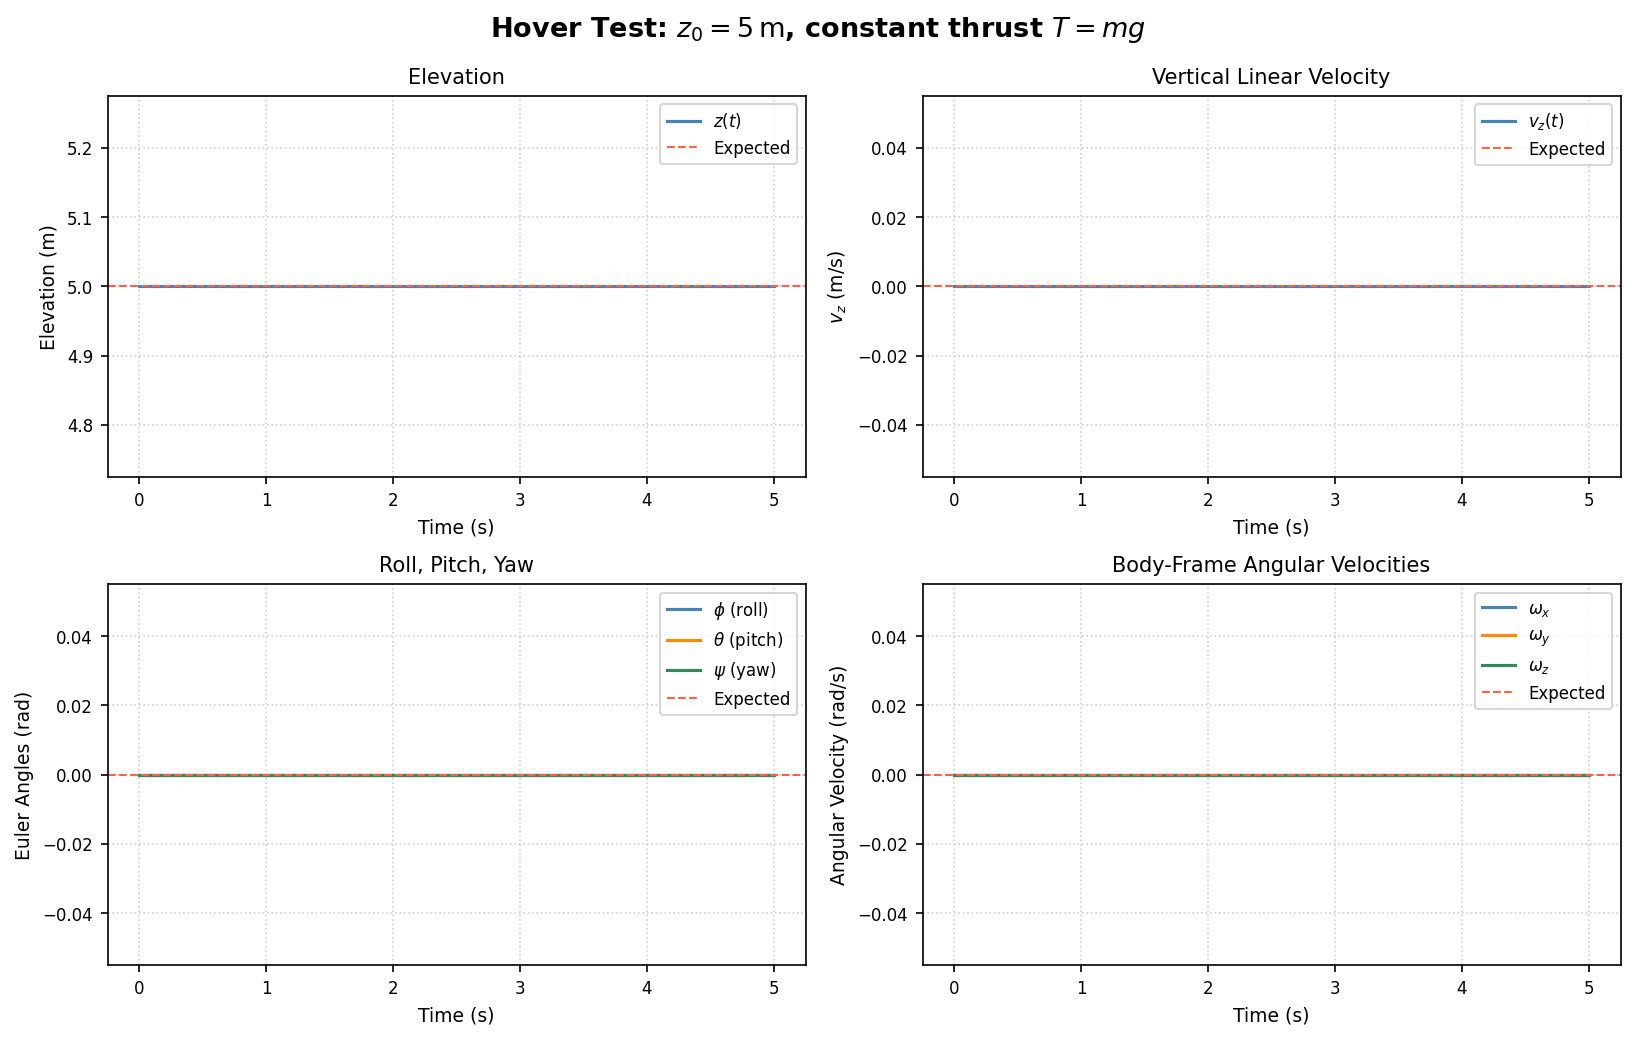
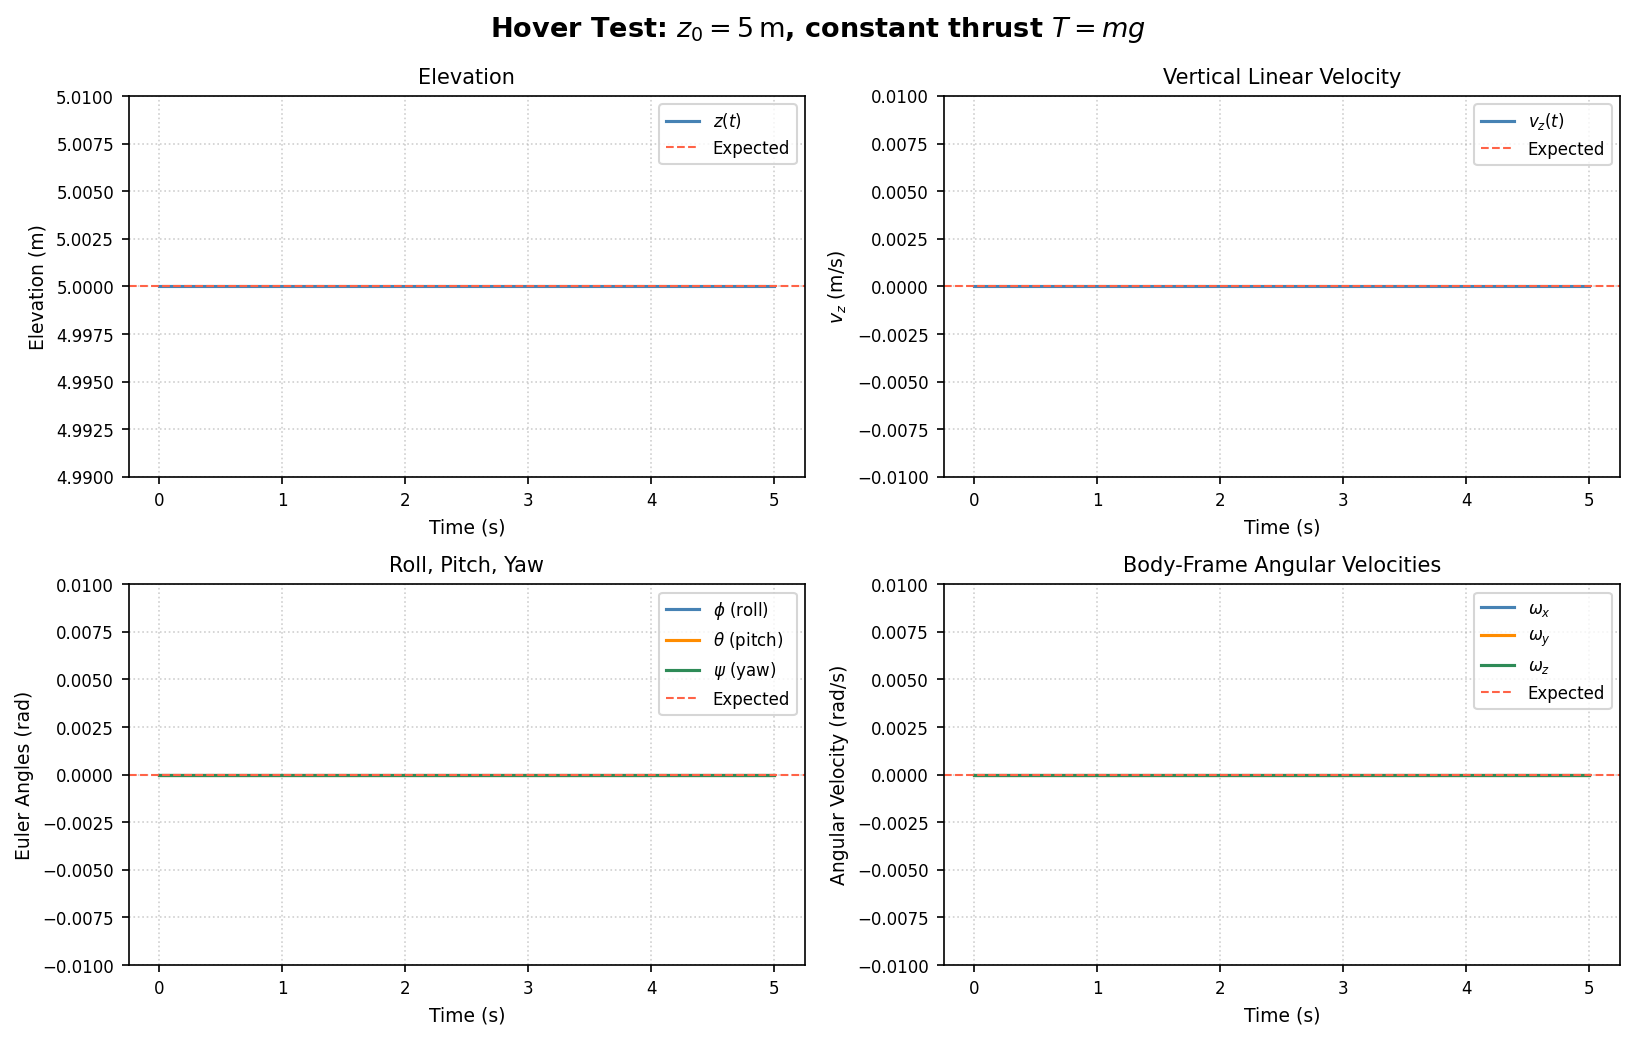
update params and add climb and descent test

diff --git a/tests/test_hover.py b/tests/test_hover.py
@@ -27,7 +27,7 @@ states = [env.state.copy()] # here we start from the IC of the iniital state tha
    
 for _ in range(env.max_steps): # step through the hover_env                                                                                                                                                                                   
     obs, _, terminated, truncated, _ = env.step(hover_action)
-    states.append(obs.copy())                                                                                                                                                                                       
+    states.append(obs)                                                                                                                                                                                       
     if terminated or truncated:
         break                                                                                                                                                                                                       
                   
@@ -79,7 +79,8 @@ ax.plot(t, z, color='steelblue', linewidth=1.5, label=r'$z(t)$')
 ax.axhline(5.0, **EXPECTED)                                                                                                                                                                                         
 ax.set_ylabel('Elevation (m)', fontsize=9)                                                                                                                                                                           
 ax.set_title('Elevation', fontsize=10)                                                                                                                                                                               
-style_ax(ax)                                                                                                                                                                                                        
+style_ax(ax)    
+axes[0,0].set_ylim(4.99,5.01)                                                                                                                                                                                                    
 
 # plot second figure with vertical linear velocity:                                                                                                                                                                                                     
 ax = axes[0, 1]                                                                                                                                                                                                     
@@ -87,7 +88,8 @@ ax.plot(t, vz, color='steelblue', linewidth=1.5, label=r'$v_z(t)$')
 ax.axhline(0.0, **EXPECTED)                                                                                                                                                                                         
 ax.set_ylabel(r'$v_z$ (m/s)', fontsize=9)                                                                                                                                                                    
 ax.set_title('Vertical Linear Velocity', fontsize=10)
-style_ax(ax)                                                                                                                                                                                                        
+style_ax(ax)
+axes[0,1].set_ylim(-0.01,0.01)                                                                                                                                                                                                        
 
 # plot third figure with euler angles for roll pitch and yaw:                                                                                                                                                                                                        
 ax = axes[1, 0]                                                                                                                                                                                                     
@@ -97,7 +99,8 @@ ax.plot(t, psi, color='seagreen', linewidth=1.5, label=r'$\psi$ (yaw)')
 ax.axhline(0.0, **EXPECTED)                                                                                                                                                                                         
 ax.set_ylabel('Euler Angles (rad)', fontsize=9)                                                                                                                                                                     
 ax.set_title('Roll, Pitch, Yaw', fontsize=10)                                                                                                                                                                       
-style_ax(ax)                                                                                                                                                                                                      
+style_ax(ax)
+axes[1,0].set_ylim(-0.01,0.01)                                                                                                                                                                                                      
 
 # last plot figure with angular velocity:                                                                                                                                                                                                                 
 ax = axes[1, 1]                                                                                                                                                                                                   
@@ -107,7 +110,8 @@ ax.plot(t, omemga_z, color='seagreen',   linewidth=1.5, label=r'$\omega_z$')
 ax.axhline(0.0, **EXPECTED)                                                                                                                                                                                         
 ax.set_ylabel(r'Angular Velocity (rad/s)', fontsize=9)                                                                                                                                                       
 ax.set_title('Body-Frame Angular Velocities', fontsize=10)                                                                                                                                                          
-style_ax(ax)                                                                                                                                                                                                        
+style_ax(ax)
+axes[1,1].set_ylim(-0.01,0.01)                                                                                                                                                                                                        
                                                                                                                                                                                                                       
 plt.tight_layout()                                                                                                                                                                                                  
 plt.savefig('figures/hover_test.png', dpi=150, bbox_inches='tight')                                                                                                                                                       

diff --git a/tests/test_climb_descend.py b/tests/test_climb_descend.py
@@ -1,38 +1,99 @@
 '''
-Here we perform a climb and descend test. We let the quadrotor start climbing at 'x' m, and set the thrust to be greater than the hover thrust. For descent, we set the thrust to be lower than
-hover thrust. We expect to see the drone's elevation increase, when climbing. And when descending, the drone's elevation should decrease at a rate much less than under freefall. 
-Moreover, the more we increase the thrust, the steeper the climb gradient should be. And for descent, the more we reduce the thrust, the steeper (more negative) the descent gradient should be.
-Additionally, the attitude of the drone (in all roll, pitch and yaw directions) should not change...i.e. they should remain at 0.
+Here we complete a climb and descent test using the HoverEnv.step() function. 
+We note that to climb, T>mg, which should result in constant up accel. 
+And to descend, T<mg, which should result in a constant downward accel. 
+
+We expect to have acceleration in z be constant (a_z(t) = (T-mg)/m)
+- v_z(t) = a_z.t (linear in time)
+- z(t) = z_0 + 0.5.a_z.t^2 (quadratic in time)
+- phi, theta, psi, omega all remain 0. 
 '''
 
-import numpy as np 
+import numpy as np
 import matplotlib.pyplot as plt
-from quadrotor.params import Quadrotorparams
-from quadrotor.simulator import simulation
+from envs.hover_env import HoverEnv
 
-# fetch our parameters: 
-params = Quadrotorparams()
+# initiliase the env. with some constants:
+env = HoverEnv()
+params = env.params
+mg = params.m * params.g
+z_0 = 5.0 # initialise the drone at 5m, same as hover test. 
 
-# start at position 'x' m up, no yaw, roll or pitch (straight and level):
-x_0 = np.array([0,0,5, # corresponds to position ICs
-                0,0,0, # corresponds to velocity ICs
-                0,0,0, # corresponds to euler angle ICs
-                0,0,0]) # corresponds to angular velocity ICs
+T_climb = 1.5 * 4.0 * params.hover_thrust # set the climb thrust to 1.5 x hover thrust
+T_descent = 0.5 * 4.0 * params.hover_thrust # set descent thrust to 0.5 x hover thrust
 
-# set thrust to be greater than hover thrust: 
-u = np.array([0.5*params.hover_thrust]*4)
+def run_step(T_total, z0=z_0):
+    env = HoverEnv()
+    env.reset()
+    env.state = np.array([
+        0.0, 0.0, z0,
+        0.0, 0.0, 0.0,
+        0.0, 0.0, 0.0,
+        0.0, 0.0, 0.0,
+    ])
+    action = np.array([T_total, 0.0, 0.0, 0.0])
+    states = [env.state.copy()]
+    for _ in range(env.max_steps):
+        obs, _, terminated, truncated, _ = env.step(action)
+        states.append(obs)
+        if terminated or truncated:
+            break
+    states = np.array(states)
+    t = np.arange(len(states)) * env.dt # convert the discrete time indices to real time indices...recall that dt = 0.01s
+    z = states[:,2]
+    vz = states[:,5]
+    az = np.gradient(vz, env.dt) # here we numerically differentiate v_z(t) to obtain the acceleration
+    return t, z, vz, az
+    
+# get the respective values from the run_step function, when applying climbing thrust and descent thrust: 
+t_climb, z_climb, vz_climb, az_climb = run_step(T_climb)
+t_descent, z_descent, vz_descent, az_descent = run_step(T_descent)
 
-# setup parameters to be fed into simulation function: 
-t_span = (0,5)
-t_eval = np.linspace(0,5,200)
+# compute the constants for climb and descent: 
+a_climb = (T_climb-mg)/params.m
+a_descent = (T_descent-mg)/params.m
 
-# fetch the solution from the simulator:
-sol = simulation(x_0, u, t_span, params, t_eval)
+# plot the figs: 
+fig, axes = plt.subplots(3, 2, figsize=(11, 9))
+fig.suptitle('Climb and Descent Test', fontsize=13, fontweight='bold')
 
-# plot the result (we should expect an increasing parabola for climb and decreasing parobola for descent): 
-plt.plot(sol.t,sol.y[2])
-plt.xlabel('Time Elapsed (s)')
-plt.ylabel('Elevation (m)')
-plt.title('Climb Test')
-plt.grid(True)
+EXPECTED = {'color': 'tomato', 'linestyle': '--', 'linewidth': 1.0}
+
+def style_ax(ax):                                                                                                                                                                        
+    ax.set_xlabel('Time (s)', fontsize=9)
+    ax.tick_params(labelsize=8)
+    ax.legend(fontsize=8, loc='best')                                                                                                                                                    
+    ax.grid(True, linestyle=':', alpha=0.6)
+
+# set the title for the left and right columns of the graphs: 
+axes[0, 0].set_title(r'Climb ($T = 1.5\,mg$)', fontsize=10)                                                                                                                              
+axes[0, 1].set_title(r'Descent ($T = 0.5\,mg$)', fontsize=10)
+
+
+# elevation graphs: 
+for ax, t, z, a in [(axes[0, 0], t_climb, z_climb, a_climb),                                                                                                                                     
+                    (axes[0, 1], t_descent, z_descent, a_descent)]:                                                                                                                                  
+    ax.plot(t, z, color='steelblue', linewidth=1.5, label=r'$z(t)$ simulated')
+    ax.plot(t, z_0 + 0.5*a*t**2, **EXPECTED, label=r'$z_0 + \frac{1}{2}a_z t^2$')                                                                                                        
+    ax.set_ylabel('Elevation $z$ (m)', fontsize=9)                                                                                                                                                 
+    style_ax(ax)
+
+# vertical linear velocity graphs: 
+for ax, t, vz, a in [(axes[1, 0], t_climb, vz_climb, a_climb),
+                    (axes[1, 1], t_descent, vz_descent, a_descent)]:                                                                                                                                
+    ax.plot(t, vz, color='steelblue', linewidth=1.5, label=r'$v_z(t)$ simulated')                                                                                                        
+    ax.plot(t, a*t, **EXPECTED, label=r'$a_z \cdot t$')
+    ax.set_ylabel(r'Vertical Linear Velocity $v_z$ (m/s)', fontsize=9)                                                                                                                                     
+    style_ax(ax)
+
+# acceleration graphs: 
+for ax, t, az, a in [(axes[2, 0], t_climb, az_climb, a_climb),                                                                                                                                   
+                    (axes[2, 1], t_descent, az_descent, a_descent)]:
+    ax.plot(t, az, color='steelblue', linewidth=1.5, label=r'$a_z(t)$ simulated')                                                                                                        
+    ax.axhline(a, **EXPECTED, label=f'Expected = {a:.3f} m s$^{{-2}}$')
+    ax.set_ylabel(r'Vertical Acceleration $a_z$ (m/s$^{2}$)', fontsize=9)                                                                                                                                     
+    style_ax(ax) 
+
+plt.tight_layout()
+plt.savefig('figures/climb_descent_test.png', dpi=150, bbox_inches='tight')
 plt.show()

diff --git a/src/quadrotor/params.py b/src/quadrotor/params.py
@@ -6,18 +6,18 @@ class Quadrotorparams:
 
     # physical quantities (we can adjust treat these as hyperparams, except g, these are just placeholder value for now): 
 
-    m: float = 0.5 # mass of drone (kg)
+    m: float = 1.0 # mass of drone (kg) - calculated as follows: each MN2212 motor is approx. 54g. Thus, 216g total for motors. Mass of Nvidia Jetson Orin Nano = 176g. Battery = 311g. ESC Tekko32 50A = 13.8g. Propellers = 60g. FC + GPS = 30g. Frame = 300g. Wiring plus screws = 100g. TOTAL = 936.8g, we'll add 10% for MoE, so we have approx 1kg drone mass.  
     g: float = 9.81 # gravitational acceleration (m.s^(-2))
 
     # moments of inertia (these are hyperparameters which we shall need to tune within the model...the intuition is to keep these reasonably small as the moments of inertia describe how 'difficult' it would be to rotate the drone in that direction...there is obviously stability/maneuverability trade-off here): 
-
-    I_x: float = 0.1
-    I_y: float = 0.1
-    I_z: float = 0.1
+    # From A S Sanca et al. 2008: I_x = 2/5.M_sphere.r^2 + 2.l^2.M_rotor = I_y; I_z = 2/5.M_sphere.r^2 + 4.l^2.M_rotor. For the F450 proposed drone frame, we would have l = 0.159m, M_rotor = 0.069kg. M_sphere = M_total - 4M_rotor = 1kg - 0.276 = 0.724kg. Estimated thickness of drone = 160mm, thus r = 0.08m
+    I_x: float = 0.005342
+    I_y: float = 0.005342
+    I_z: float = 0.008831
 
     # drone dimensions and torque-thrust ratio:
 
-    l : float = 0.2 # arm length (m) from centre of mass
+    l : float = 0.159 # arm length (m) from centre of mass
     k_d: float = 0.1 # torque-thrust ratio
 
     # maximum thrust in N, for a single MN2212 T-motor (equivalent to 1.8kg)
